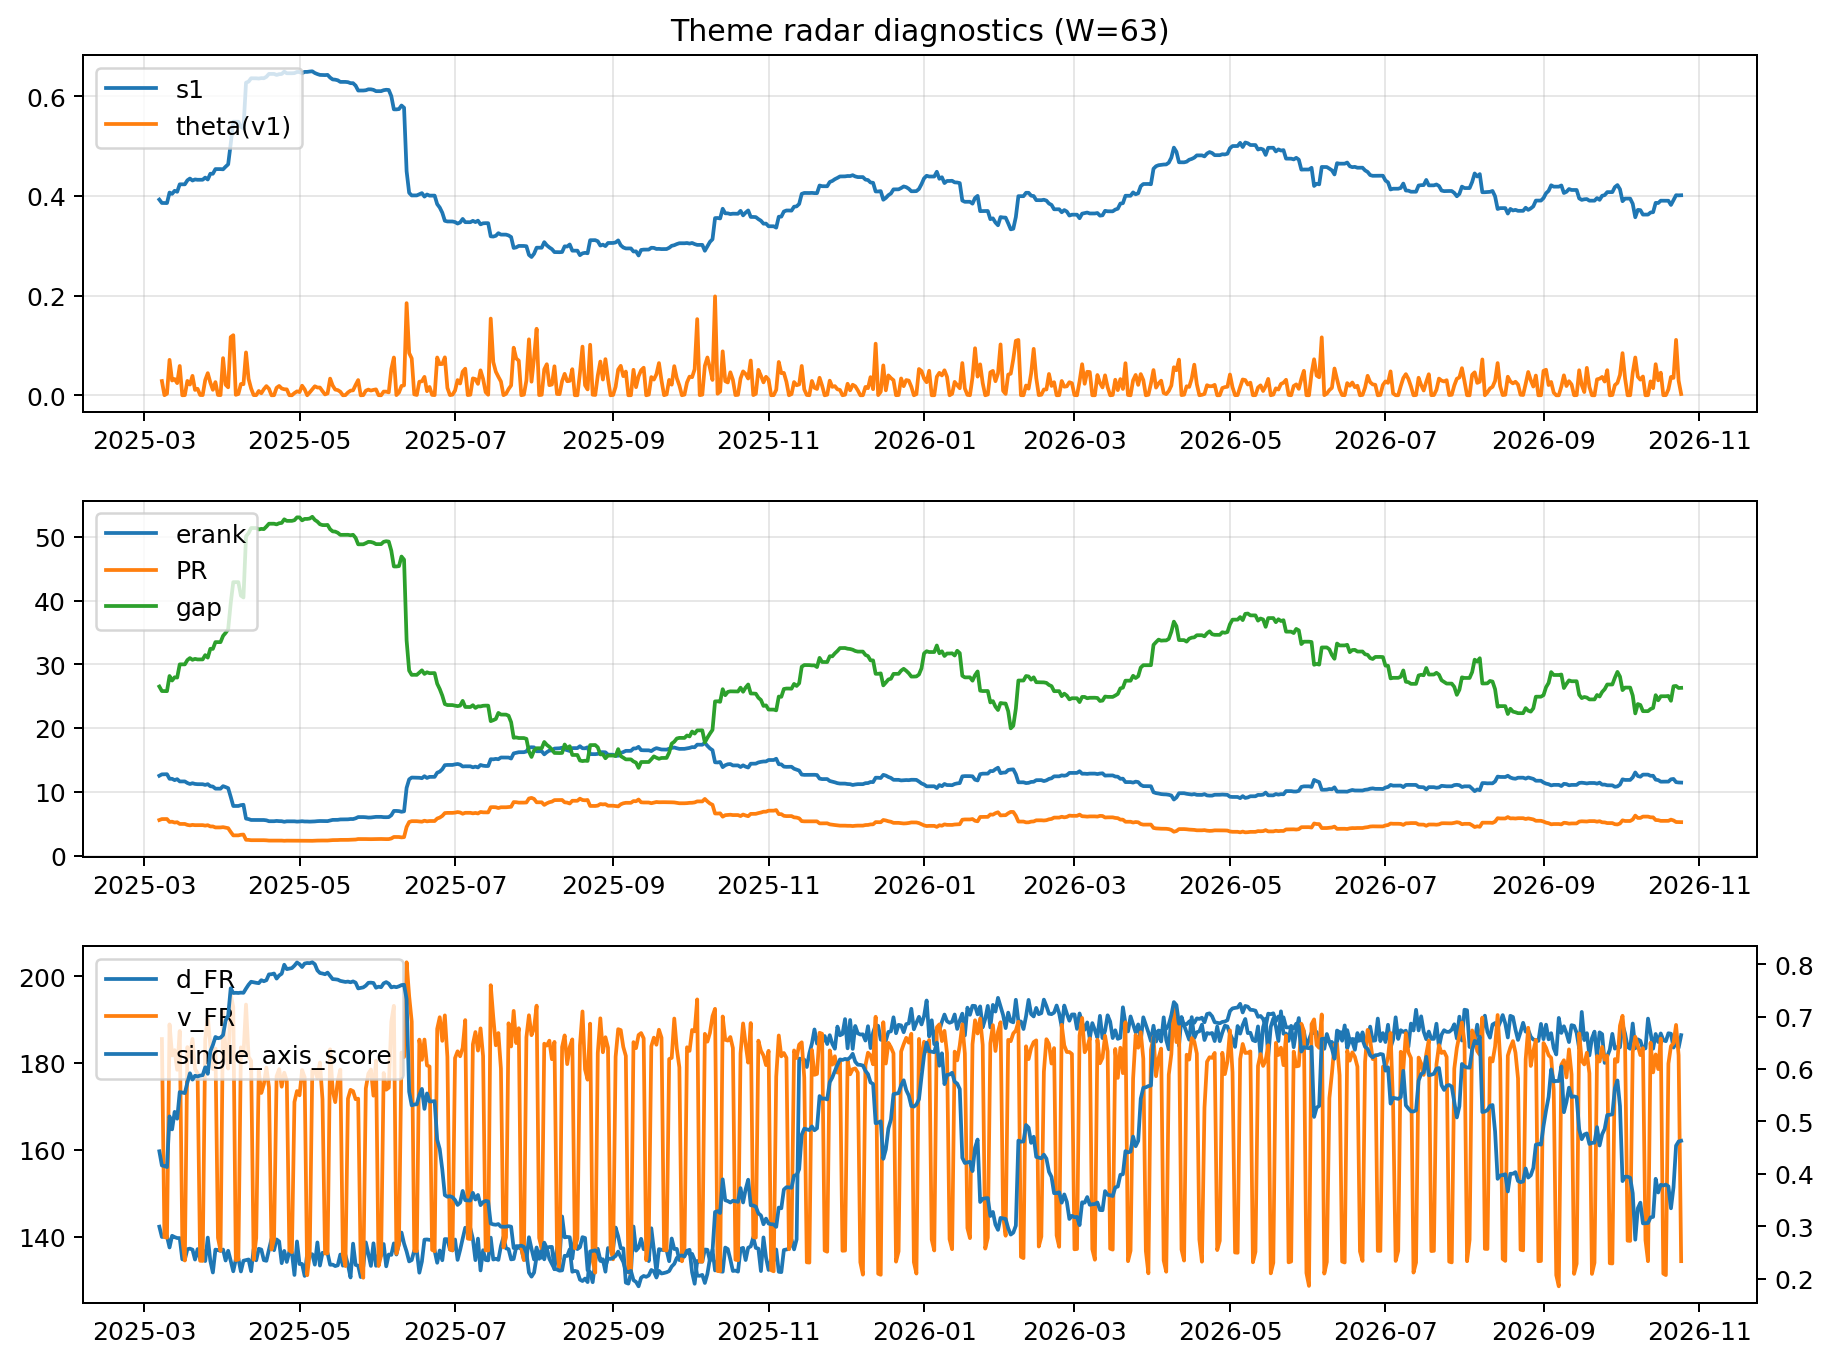
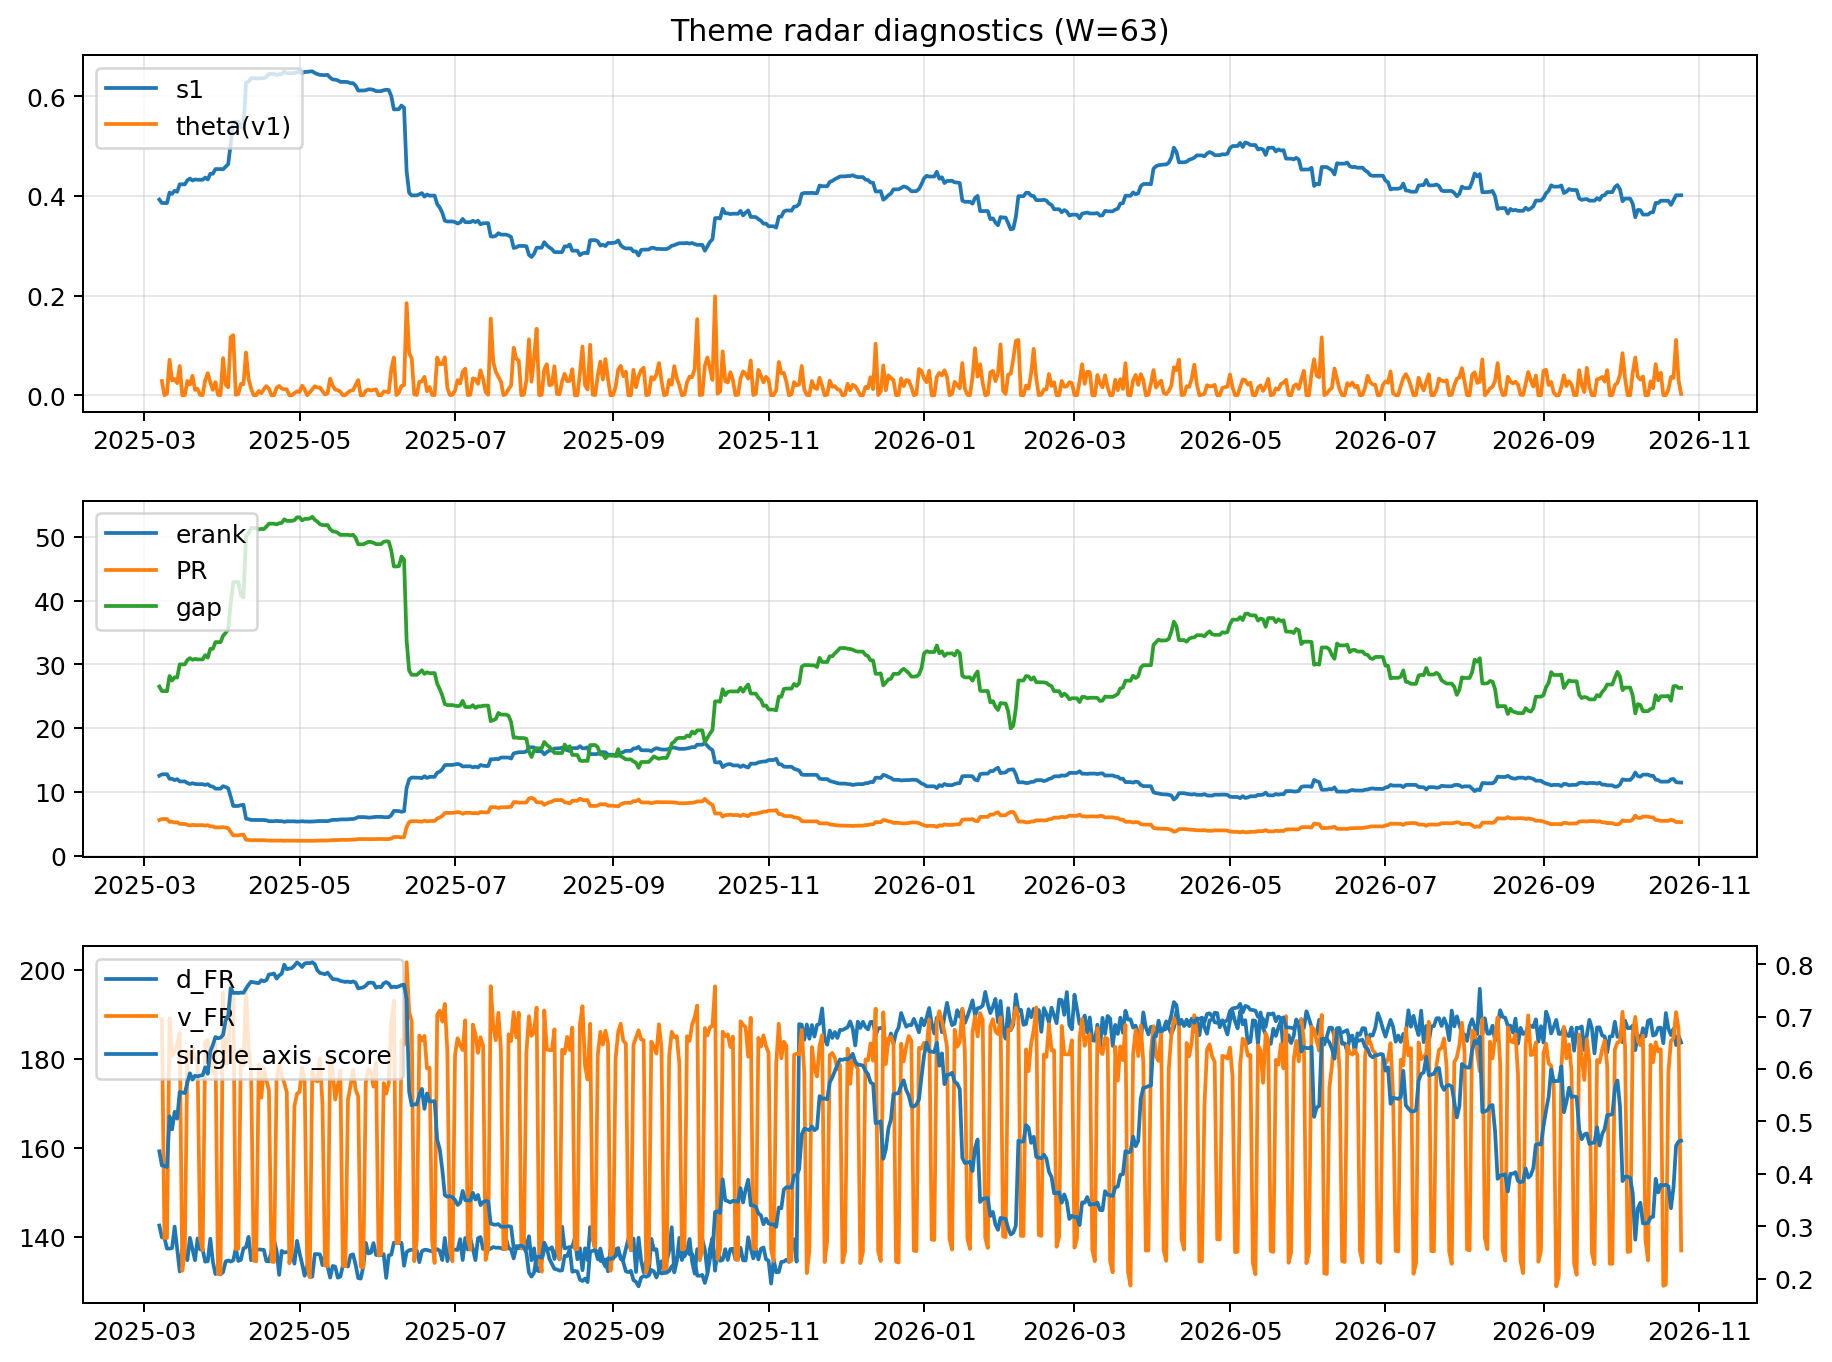
log: 2026-10-25 | sha256:c8a70b7ab8dc01a72cca30ab4888ffa9e50b6585a467653afff6590e2e3e7c39

diff --git a/logs/2026-10-25.md b/logs/2026-10-25.md
@@ -3,43 +3,43 @@
 ![diagnostic W63](../assets/diagnostic/2026-10-25_W63.png)
 
 ## Leaders (v1) — W=63
-- **Nuclear_Uranium** (0.0776242620033891)
-- Semis (0.0681119287961836)
-- Quantum (0.0568379093117805)
+- **Nuclear_Uranium** (0.0776242650897324)
+- Semis (0.0681119318646266)
+- Quantum (0.0568379106507943)
 
 ## Challengers — W=63
-**v2:** Rates (0.1352610482521456), Semis (0.0906890256442181), Credit (0.0588220304700873)
-**v3:** Software_Cloud (0.1108614637003069), Grid_Power (0.0729900846518584), Cyber (0.0716279877875973)
+**v2:** Rates (0.1352609790074763), Semis (0.0906890097678032), Credit (0.0588220316142489)
+**v3:** Software_Cloud (0.1108614559026538), Grid_Power (0.0729900856880343), Cyber (0.0716279697943135)
 
 ## Migration (20D slope) — W=63
 **Top risers:**
-- axis_MegaCap_AI: 0.0008682855786704
-- axis_Software_Cloud: 0.0006131233283856
-- axis_Crypto: 0.000577699397044
-- axis_Cyber: 0.0004683466877997
-- axis_Sector_ConsStap: 0.0003890458743408
-- axis_Semis: 0.0002413915804671
-- axis_Metals: 0.0001872710952275
-- axis_Critical_Minerals: 9.7955743785106e-05
-- axis_Sector_Comm: 9.443096095528146e-05
-- axis_Miners: 5.4936921835676095e-05
+- axis_MegaCap_AI: 0.0008682861487613
+- axis_Software_Cloud: 0.0006131239739254
+- axis_Crypto: 0.0005776997215569
+- axis_Cyber: 0.0004683470573648
+- axis_Sector_ConsStap: 0.00038904587267
+- axis_Semis: 0.0002413922237858
+- axis_Metals: 0.0001872708806815
+- axis_Critical_Minerals: 9.795554949583691e-05
+- axis_Sector_Comm: 9.443115834100814e-05
+- axis_Miners: 5.4936695626868754e-05
 
 **Top fallers:**
-- axis_Space: -0.0001013526456721
-- axis_Robotics: -0.0001175105787121
-- axis_USD: -0.0001421717954337
-- axis_Equity_US: -0.00014581448022
-- axis_Equity_ExUS: -0.0001938618325867
-- axis_Sector_RealEstate: -0.0002039716471669
-- axis_Sector_Materials: -0.0002059970146465
-- axis_Sector_Utilities: -0.0002806103800536
-- axis_Credit: -0.0004464037253942
-- axis_Rates: -0.0014701918724715
+- axis_Space: -0.0001013526836401
+- axis_Robotics: -0.0001175104286492
+- axis_USD: -0.0001421719118762
+- axis_Equity_US: -0.0001458141019465
+- axis_Equity_ExUS: -0.0001938616861322
+- axis_Sector_RealEstate: -0.0002039715722125
+- axis_Sector_Materials: -0.0002059971015852
+- axis_Sector_Utilities: -0.0002806104846103
+- axis_Credit: -0.0004464034473577
+- axis_Rates: -0.0014701950872947
 
 ## Risk line (W=63)
-- s1: 0.4012835482581552
-- theta_v1: 0.0025598490224454
-- v_FR: 134.39066907971096
+- s1: 0.401283544921751
+- theta_v1: 0.0025598490629537
+- v_FR: 136.86989892018337
 - single_axis_score: 0.4632107023411371
 
 ## Interpretation
@@ -48,7 +48,7 @@
 - Action: Tomorrow watchlist: MegaCap_AI, Software_Cloud, Crypto, Cyber, Sector_ConsStap + v2_top1=Rates
 - Action: Hedge note: normal correlation stability.
 
-- Percentiles (W=63 history): vfr_pct=0.10, theta_pct=0.26, s1_pct=0.46, score_pct=0.43.
+- Percentiles (W=63 history): vfr_pct=0.18, theta_pct=0.26, s1_pct=0.46, score_pct=0.43.
 
 ---
[2 lines of base64/hex data omitted]
